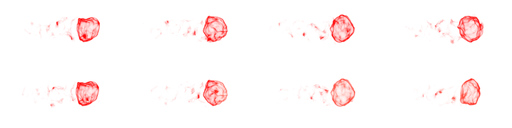
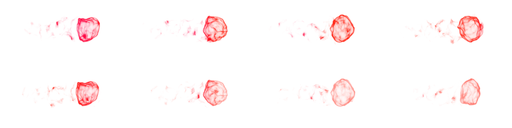
add red meteor ability

diff --git a/src/constants/weapons.js b/src/constants/weapons.js
@@ -24,6 +24,8 @@ import stunGunAnimation from '../images/stunGunAnimation.png';
 import meteorShowerAnimation from '../images/meteorShowerAnimation.png';
 import piercerAnimation from '../images/piercerAnimation.png';
 import electricFieldAnimation from '../images/electricFieldAnimation.png';
+import redMeteorAnimation from '../images/redMeteorAnimation.png';
+import meteorExplosionAnimation from '../images/meteorExplosionAnimation.png';
 
 import cannonAudio from '../audio/cannon.wav';
 import missileAudio from '../audio/missile.wav';
@@ -180,8 +182,8 @@ export const ABILITY_WEAPONS = [
     location: {x: 0, y: 0},
     trajectory: 0,
     speed: 7,
-    width: 4,
-    height: 4,
+    width: 96,
+    height: 48,
     damage: 300,
     animation: {
       coordinates: {x: 0, y: 0},
@@ -309,7 +311,32 @@ export const ABILITY_WEAPONS = [
       xOffset: 0,
       yOffset: 0,
     }
-  }
+  },
+  {
+    id: 7,
+    name: 'redMeteor',
+    location: {x: 0, y: 0},
+    trajectory: 0,
+    speed: 20,
+    width: 60,
+    height: 30,
+    damageRadius: 10,
+    damage: 100,
+    animation: {
+      coordinates: {x: 0, y: 0},
+      spriteImage: redMeteorAnimation,
+      width: 128,
+      height: 64,
+      renderWidth: 60,
+      renderHeight: 30,
+      rowCount: 4,
+      columnCount: 2,
+      rate: 0,
+      startRate: 0,
+      xOffset: 0,
+      yOffset: 0,
+    }
+  },
 ]
 
 export const EXPLOSION_ANIMATIONS = [
@@ -363,5 +390,22 @@ export const EXPLOSION_ANIMATIONS = [
     yOffset: -50,
     renderWidth: 200,
     renderHeight: 200,
-  }
+  },
+  {
+    id: 4,
+    name: 'meteorExplosion',
+    location: {x: 0, y: 0},
+    coordinates: {x: 0, y: 0},
+    spriteImage: meteorExplosionAnimation,
+    width: 256,
+    height: 256,
+    rowCount: 4,
+    columnCount: 6,
+    rate: 0,
+    startRate: 0,
+    xOffset: -100,
+    yOffset: -100,
+    renderWidth: 200,
+    renderHeight: 200,
+  },
 ]

diff --git a/src/helpers/gameLogic.js b/src/helpers/gameLogic.js
@@ -219,6 +219,9 @@ export const handleWeapons = (gameData, handleGameEvent) => {
     } else if (weapon.id === 3) {
       const mineExplosionAnimation = {...EXPLOSION_ANIMATIONS[0], location: weapon.location, coordinates: {x: 0, y: 0}}
       gameData.animations.push(mineExplosionAnimation);
+    } else if (weapon.id === 7) {
+      const meteorExplosion = {...EXPLOSION_ANIMATIONS[3], location: weapon.location, coordinates: {x: 0, y: 0}}
+      gameData.animations.push(meteorExplosion);
     }
     if (attacker.levelUp) {
       delete attacker.levelUp
@@ -291,9 +294,6 @@ const updateCollisionData = (player, weapon, attacker, handleGameEvent) => {
   if (player.hitpoints > 0) {
     player = handleNegativeBuff(player, weapon, attacker);
     const damage = calculateDamage(weapon, player);
-    // if (player.shipIndex === 1) {
-    //   attacker.hitpoints -= round(damage / 4);
-    // }
     player.hitpoints -= damage;
     attacker = handlePositiveBuff(attacker, weapon);
     attacker.score += round(damage * 0.1)
@@ -322,9 +322,15 @@ const handleNegativeBuff = (player, weapon) => {
   if (weapon.index === 5) {
     const effect = createEffect(0, 3000);
     player.effects[effect.id] = effect;
-  } else if (weapon.index === 6 || weapon.id === 6) {
+  } else if (weapon.index === 6 || (weapon.id === 6 && !player.effects[2])) {
     const effect = createEffect(1, 2000);
     player.effects[effect.id] = effect;
+  } else if (weapon.id === 7) {
+    const slow = createEffect(1, 9000);
+    player.effects[slow.id] = slow;
+
+    const poison = createEffect(0, 9000);
+    player.effects[poison.id] = poison;
   }
 
   if ((weapon.canStun && Math.random() <= 0.1) || weapon.id === 2) {

diff --git a/src/helpers/abilityHelpers.js b/src/helpers/abilityHelpers.js
@@ -14,7 +14,6 @@ export const handleAbility = (players, deployedWeapons, playerData, elapsedTime,
     const location = players[playerData.index].location;
     newAnimmations = [...animations, {...GAME_ANIMATIONS[ability.animationIndex], location, coordinates: {x: 0, y: 0}}];
   }
-
   if (ability.type === 'weapon') {
     playSound(ability.sound);
     return addAbilityWeapon(ability.weaponIndex, deployedWeapons, playerData, elapsedTime);
@@ -26,20 +25,19 @@ export const handleAbility = (players, deployedWeapons, playerData, elapsedTime,
 
 const addAbilityWeapon = (weaponIndex, deployedWeapons, playerData, elapsedTime) => {
   let weapon = {...ABILITY_WEAPONS[weaponIndex], deployedAt: Date.now() - elapsedTime}
-  switch (weapon.id) {
-    case 4:
-      return handleMeteorShower(deployedWeapons, playerData, weapon, elapsedTime);
-    default:
-      const updatedWeapons = [
-          ...deployedWeapons,
-          handleFireWeapon(
-          playerData,
-          weapon,
-          elapsedTime,
-          weapon.damage * playerData.abilityLevel
-        )
-      ];
-      return {deployedWeapons: updatedWeapons}
+  if (weapon.id === 4) {
+    return handleMeteorShower(deployedWeapons, playerData, weapon, elapsedTime);
+  } else {
+    const updatedWeapons = [
+        ...deployedWeapons,
+        handleFireWeapon(
+        playerData,
+        weapon,
+        elapsedTime,
+        weapon.damage * playerData.abilityLevel
+      )
+    ];
+    return {deployedWeapons: updatedWeapons}
   }
 }
 

diff --git a/src/constants/abilities.js b/src/constants/abilities.js
@@ -14,6 +14,7 @@ import electricFieldIcon from '../images/electricFieldIcon.png';
 import armorReductionIcon from '../images/armorReductionIcon.png';
 import returnDamageIcon from '../images/returnDamageIcon.png';
 import evasionIcon from '../images/evasionIcon.png';
+import redMeteorIcon from '../images/redMeteorIcon.png';
 import armorBoost from '../images/armorBoost.png';
 import {
   windSound,
@@ -188,9 +189,18 @@ export const ABILITIES = [
   },
   {
     index: 17,
-    type: 'passive',
-    description: 'Gives the ship a (%11, %22, %33) chance to evade an attack (passive ability)',
-    cooldown: 0,
-    image: evasionIcon,
+    type: 'weapon',
+    weaponIndex: 6,
+    description: 'Fires a red meteor dealing (100, 200, 300) damage, slowing and poison your opponent',
+    cooldown: 30000,
+    image: redMeteorIcon,
+    sound: meteorConeSound,
   }
+  // {
+  //   index: 17,
+  //   type: 'passive',
+  //   description: 'Gives the ship a (%11, %22, %33) chance to evade an attack (passive ability)',
+  //   cooldown: 0,
+  //   image: evasionIcon,
+  // }
 ]

diff --git a/src/components/Canvas.jsx b/src/components/Canvas.jsx
@@ -85,7 +85,9 @@ class Canvas extends React.Component {
     const armorReduction = this.refs.armorReduction
     const spaceMineExplosion = this.refs.spaceMineExplosion
     const nuclearExplosion = this.refs.nuclearExplosion
+    const meteorExplosion = this.refs.meteorExplosion
     const electricField = this.refs.electricField
+    const redMeteor = this.refs.redMeteor
     const levelUp = this.refs.levelUp
     const blink = this.refs.blink
 
@@ -145,8 +147,10 @@ class Canvas extends React.Component {
       damageReduction: damageReduction,
       armorReduction: armorReduction,
       electricField: electricField,
+      redMeteor: redMeteor,
       spaceMineExplosion: spaceMineExplosion,
       nuclearExplosion: nuclearExplosion,
+      meteorExplosion: meteorExplosion,
       shipExplosion: shipExplosion,
       levelUp: levelUp,
       blink: blink,

diff --git a/src/constants/settings.js b/src/constants/settings.js
@@ -25,6 +25,7 @@ import rapidFireAudio from '../audio/rapidFireSound.mp3';
 import damageReductionAudio from '../audio/damageReductionSound.mp3';
 import electricFieldAudio from '../audio/electricFieldSound.mov';
 import armorReductionAudio from '../audio/armorReductionSound.mp3';
+import missileAudio from '../audio/missile.wav';
 
 // images
 import levelUpAnimation from '../images/levelUpAnimation.png';
@@ -65,6 +66,7 @@ export const rapidFireSound = new Audio(rapidFireAudio);
 export const damageReductionSound = new Audio(damageReductionAudio);
 export const electricFieldSound = new Audio(electricFieldAudio);
 export const armorReductionSound = new Audio(armorReductionAudio);
+export const missileSound = new Audio(missileAudio);
 
 export const GAME_ANIMATIONS = [
   {

diff --git a/src/helpers/itemHelpers.js b/src/helpers/itemHelpers.js
@@ -54,6 +54,11 @@ export const handleAbsorbDamage = (player) => {
 
 export const canAbsorbDamage = (player) => {
   const item = getItem(player.items, 4);
+
+  // if (player.shipIndex === 1) { evade item
+  //   attacker.hitpoints -= round(damage / 4);
+  // }
+
   return (player.effects[6]) || (item && item.durationCount >= item.cooldown)
 };
 
